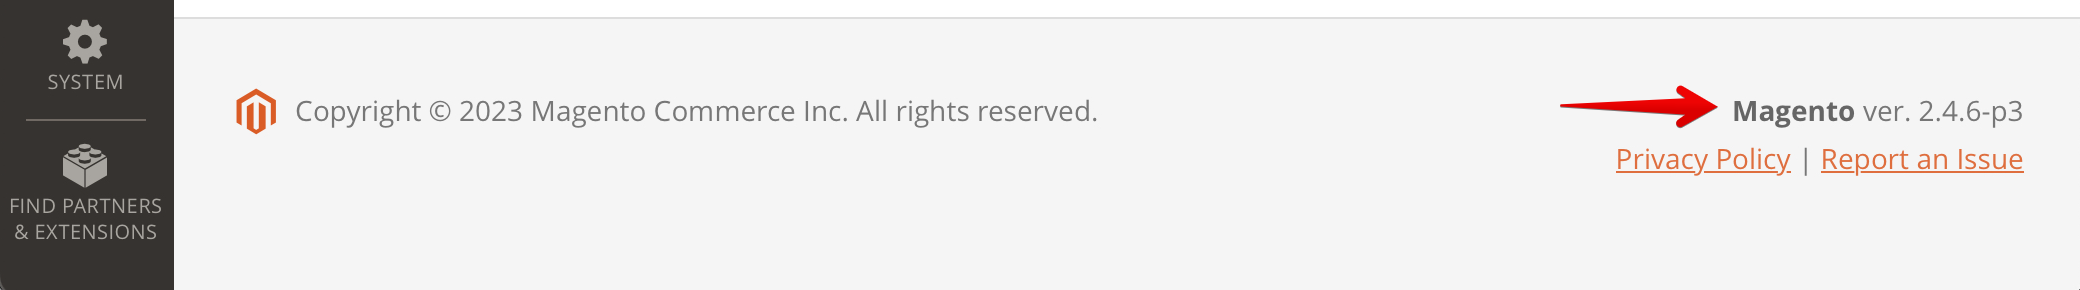
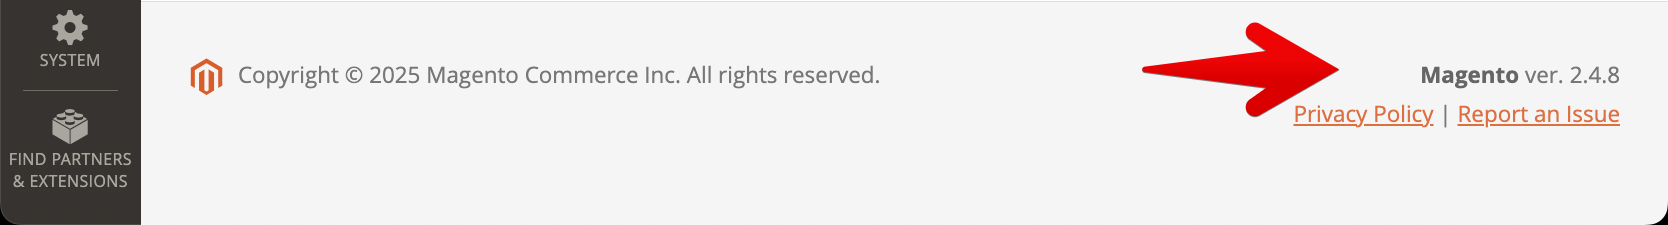
Update magento docs for 2.4.8 update, supression of the dedicated magento v1 and v2 pages in favor to single v2 centric page

diff --git a/source/integration/ecommerce_platforms/magento.rst b/source/integration/ecommerce_platforms/magento.rst
@@ -12,55 +12,47 @@ Talkable offers free extension for Magento 2.4 which allows you to integrate and
 Prerequisites
 -------------
 
-1.  Magento 2.4
+1. Magento 2.4
 
-    .. warning::
+   .. warning::
 
       Magento 1.x is no longer supported. If you are currently using Magento 1.x, we recommend upgrading to Magento 2.4 to use the Talkable extension.
 
-    To check your Magento version, navigate to your store's admin panel. The version number will be listed in the page footer.
+   To check your Magento version, navigate to your store's admin panel. The version number will be listed in the page footer.
 
-    * For Magento 1.x:
-
-      .. image:: /_static/img/magento/version.png
-
-    * For Magento 2.x:
-
-      .. image:: /_static/img/magento2/version.png
+   .. image:: /_static/img/magento2/version.png
 
 2.  Talkable account
 
-3.  Magento Marketplace account (optional)
+3.  Adobe Commerce account
 
-    .. note::
-      
-      This account is required only if you plan to install the extension from the Adobe Commerce Marketplace. If you prefer to install it directly from the command line on your server, this account is not necessary.
-
-    If you do not have a Magento Marketplace account configured, follow 
-    `these steps <https://experienceleague.adobe.com/en/docs/commerce-admin/start/commerce-account/commerce-account-create>`_ 
-    to connect one to your Magento store.
+    If you do not have an Adobe Commerce account configured, follow 
+    `these steps <https://experienceleague.adobe.com/en/docs/commerce-admin/start/commerce-account/commerce-account-create>`_.
 
 
 Installation
 ------------
 
-From the Adobe Commerce Marketplace
-~~~~~~~~~~~~~~~~~~~~~~~~~~~~~~~~~~~
-
-1. Visit the Magento Marketplace and get the Talkable extension.
-
-   .. image:: /_static/img/magento2/install.jpg
-
-
-From the command line
-~~~~~~~~~~~~~~~~~~~~~
-
 .. note::
 
    Installation via Composer requires an IT administrator with SSH access to the server where Magento 2 is hosted.
 
-2. Log in to your Magento 2 server and navigate to the root directory of your Magento app from your command line tool.
-   This guide shows example outputs for Terminal, but these steps can be modified for any command line tool of your choice.
+1. Get the Talkable extension
+
+   Visit the Adobe Commerce Marketplace and get the Talkable extension.
+   https://commercemarketplace.adobe.com/talkable-magento2-integration.html
+
+   .. image:: /_static/img/magento2/install.jpg
+
+|br|
+
+2. Open the terminal and navigate to the root directory of your Magento app.
+
+   Usually it's ``/var/www/html/``.
+
+   .. code-block:: bash
+
+      cd /var/www/html/
 
 3. Run the following command to access the latest version of the Talkable extension.
     
@@ -109,20 +101,17 @@ Accessing Talkable Configuration
    .. image:: /_static/img/magento2/access1.jpg
 
 2. Then select **Talkable** → **Talkable Configuration** from the list of available configurations.
+   
    If you have multiple stores, select the desired Store View you want to change the settings for.
 
    .. image:: /_static/img/magento2/access2.jpg
 
-|page_break|
-
 Configuring Talkable Extension
 ------------------------------
 
-The extension configuration screen consists of three sections: Integration_, Campaigns_ and `Page URLs`_.
+Expand `Integration`, `Campaigns` and `Page URLs` sections to see all available configuration options.
    
 .. image:: /_static/img/magento2/configure1.jpg
-
-|page_break|
 
 Integration
 ~~~~~~~~~~~
@@ -137,18 +126,21 @@ to your Talkable account.
    Only change this setting if you need to connect your store to a different site in the Talkable dashboard.
    An incorrect value will prevent your campaigns from showing.
 
-   Changing the Site ID will invalidate the full page cache. Magento will display a warning message with
-   a link to the Cache Management page. Please follow this link and refresh the invalidated cache types.
+You need to paste the Site ID from your Talkable Site Dashboard into this field.
 
-   .. image:: /_static/img/magento2/cache.jpg
+.. image:: /_static/img/magento2/configure3.jpg
 
-.. note::
+|br|
+Changing the Site ID will invalidate the full page cache. Magento will display a warning message with a link to the Cache Management page.
 
-   You need to paste the Site ID from your Talkable Site Dashboard into this field.
+You would need to follow ``Cache Management`` link and refresh the invalidated cache types.
 
-   .. image:: /_static/img/magento2/configure3.jpg
+.. image:: /_static/img/magento2/flush-cache.png
 
-|page_break|
+|br|
+As a result you should see the config status as ``Enabled``.
+
+.. image:: /_static/img/magento2/flush-cache-successful.png
 
 Campaigns
 ~~~~~~~~~
@@ -158,8 +150,6 @@ For example, if you don’t have Standalone or Advocate Dashboard campaigns conf
 you can disable these campaigns in extension config, so the corresponding pages are not accessible.
 
 .. image:: /_static/img/magento2/configure4.jpg
-
-|page_break|
 
 Page URLs
 ~~~~~~~~~
@@ -177,4 +167,4 @@ Default values correspond to default placements in Talkable.
 
 .. image:: /_static/img/magento2/configure6.jpg
 
-.. _Magento Extensions Guide: https://experienceleague.adobe.com/docs/commerce-operations/installation-guide/tutorials/extensions.html
+.. _Magento Extensions Guide: https://experienceleague.adobe.com/en/docs/commerce-operations/installation-guide/tutorials/extensions
